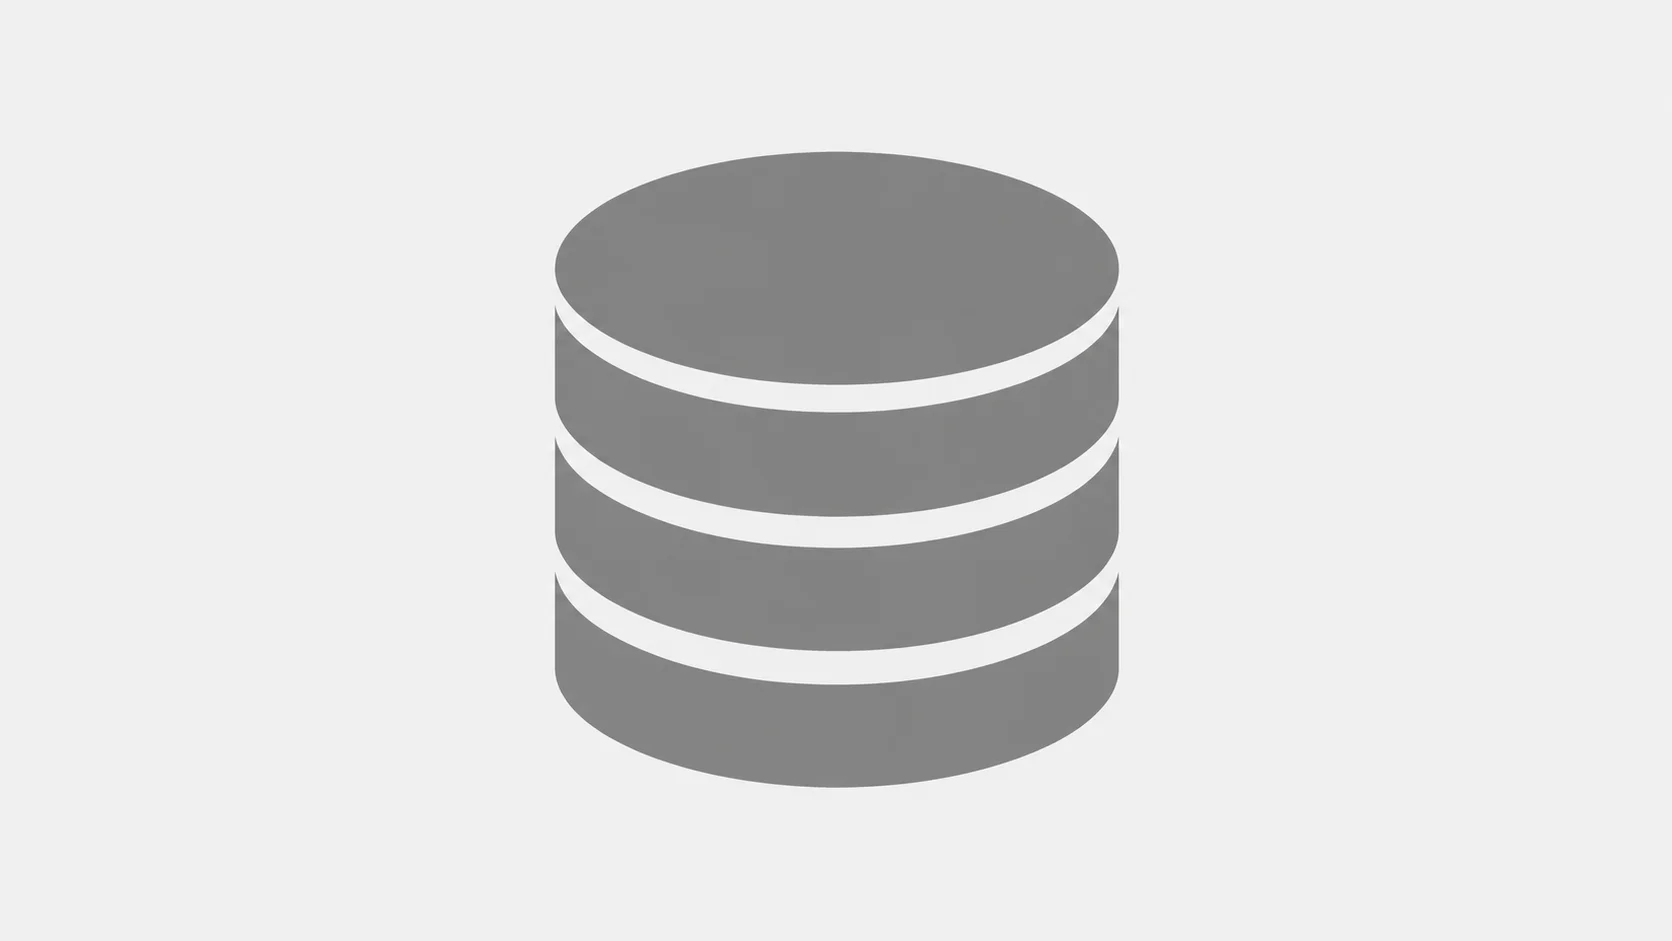
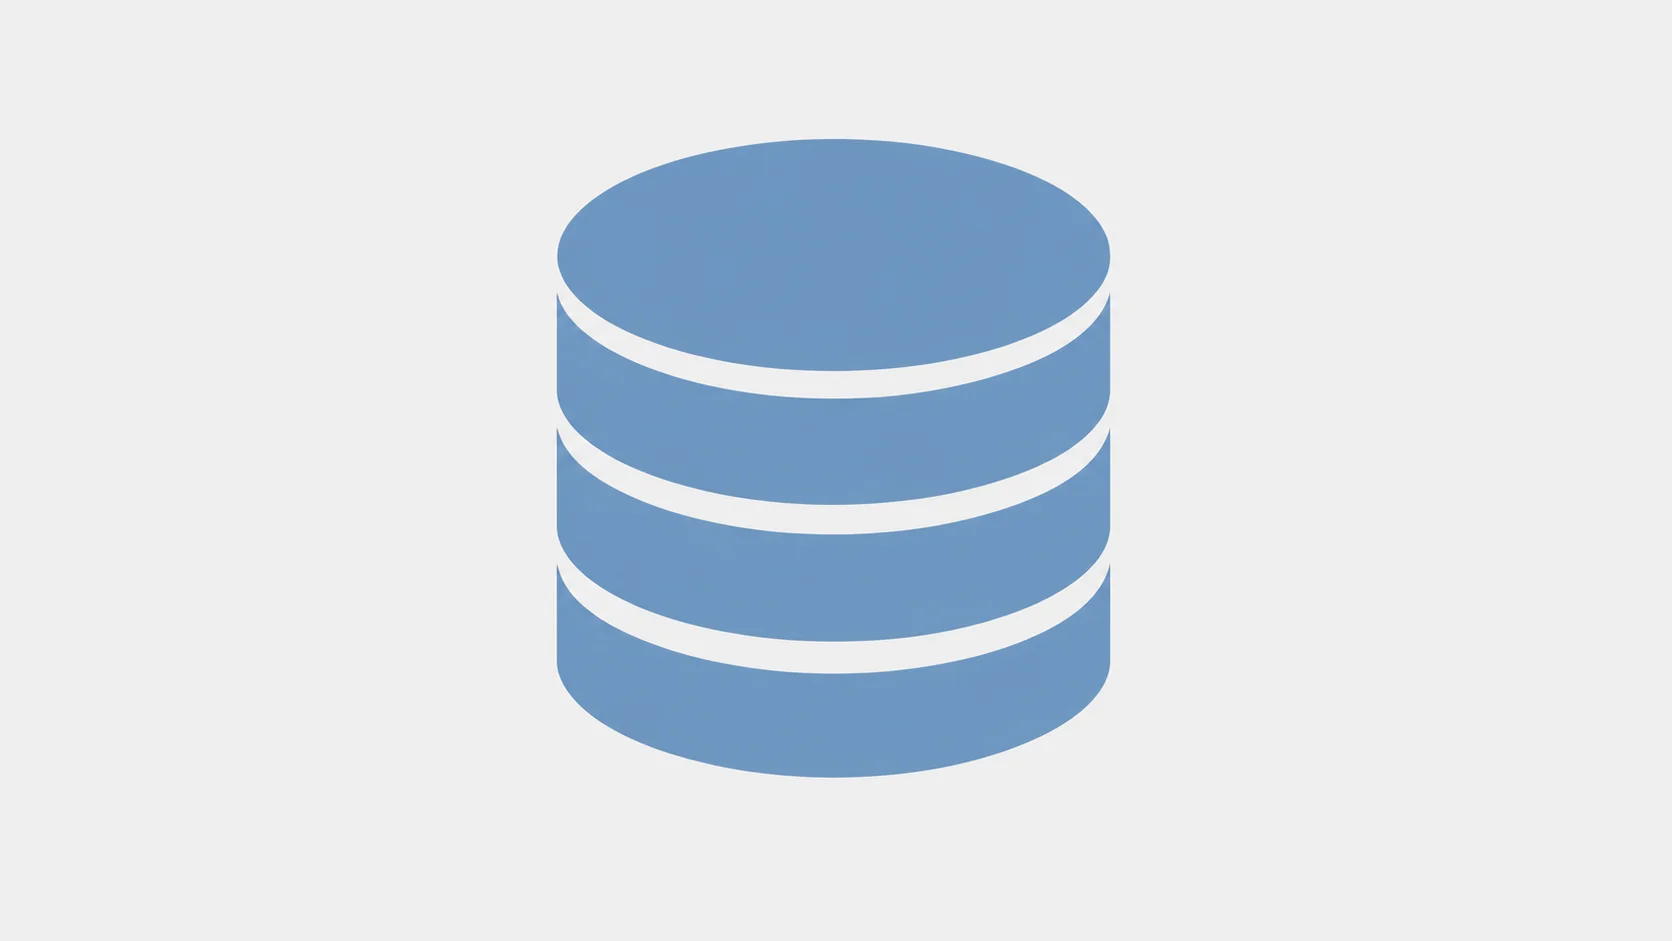
fix color pannel

Changed region(s): [[0.311, 0.1233, 0.6842, 0.8629]]

diff --git a/src/constants/panels.ts b/src/constants/panels.ts
@@ -78,7 +78,7 @@ export const PANELS: PanelItem[] = [
     url: "/images/panel-frontend.webp",
     title: "Frontend",
     label: "Skills",
-    placement: "center",
+    placement: "bottom",
     year: "2025",
     description:
       "**Core:** HTML/CSS, JavaScript (ES6+), TypeScript.\n\n**Frameworks:** ReactJS 18+, Next.js 14+, Vue 3.\n\n**State & data:** Zustand, Pinia, React Query.\n\n**Styling:** Tailwind CSS, Ant Design, Material UI, SCSS.",
@@ -96,7 +96,7 @@ export const PANELS: PanelItem[] = [
     url: "/images/panel-database.webp",
     title: "Database",
     label: "Skills",
-    placement: "top",
+    placement: "bottom",
     year: "2025",
     description:
       "**Databases:** PostgreSQL, SQL Server.\n\nSchema design, queries and data modeling for production apps.",
@@ -105,7 +105,7 @@ export const PANELS: PanelItem[] = [
     url: "/images/panel-ai.webp",
     title: "AI",
     label: "Skills",
-    placement: "center",
+    placement: "bottom",
     year: "2025",
     description:
       "**AI-assisted development:** Claude AI woven into the daily workflow.\n\nBuilt reusable **Claude Code agents**, **skills**, **rules** and **project conventions** that streamlined engineering and accelerated delivery.",
